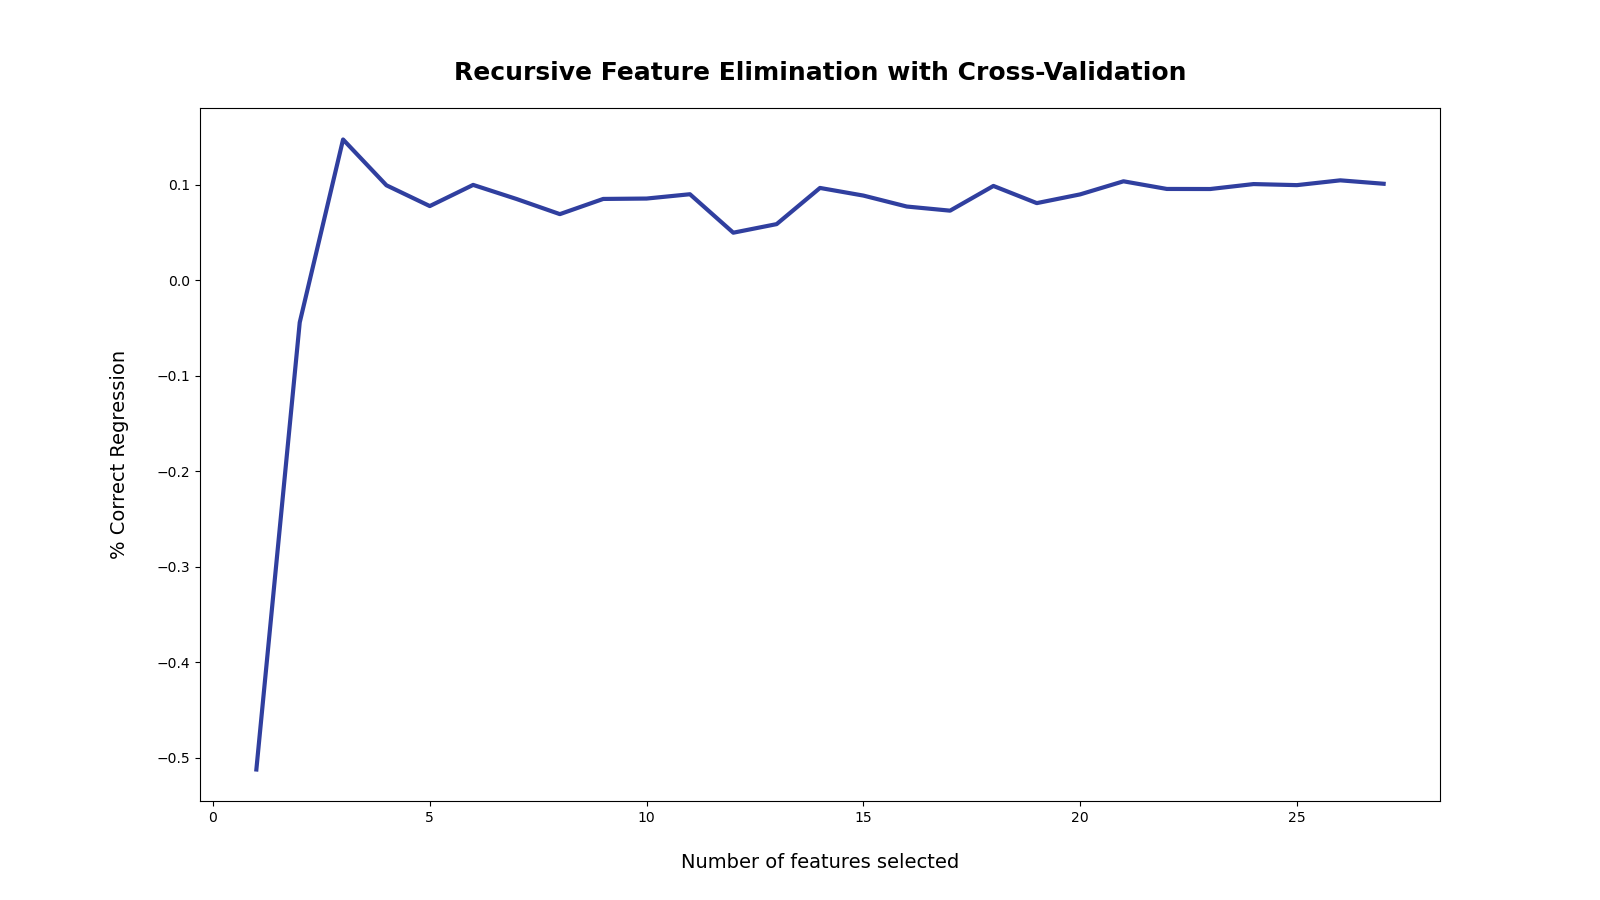
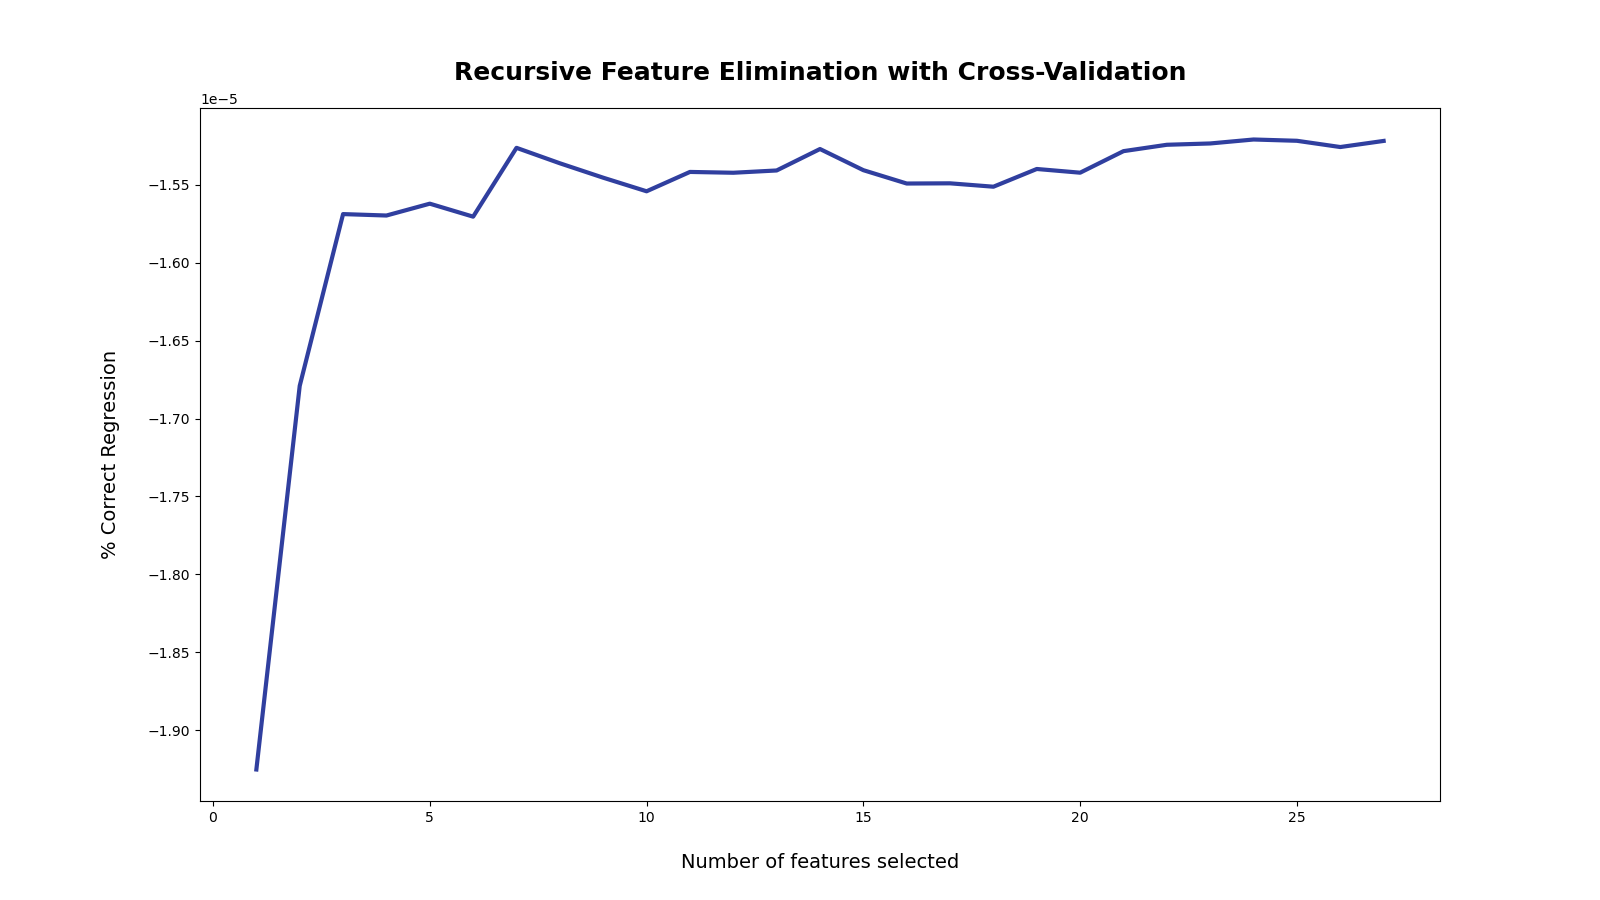
Corrected scoring method on RFECV; RFECV works as intended now

diff --git a/predictor_utils.py b/predictor_utils.py
@@ -26,7 +26,6 @@ def optimize(model, X_train, Y_train):
     Returns:
         None
     """
-    print("using optimization")
     # add whatever your heart desires to param grid, keep in mind its an incredibly inefficient algorithm
     param_grid = {
         'n_estimators': [2500],
@@ -60,7 +59,7 @@ def recursive_feature_elimination(model, X_train, Y_train, mask_file):
     dir_path = os.path.dirname(os.path.realpath(__file__))
     mask_file = os.path.join(dir_path, mask_file)
 
-    selector = RFECV(estimator=model, step=1, cv=5, scoring='r2', verbose=1)
+    selector = RFECV(estimator=model, step=1, cv=5, scoring='neg_mean_squared_error', verbose=1)
     selector = selector.fit(X_train, Y_train)
 
     # uncomment this line to view the RFECV accuracy scores
